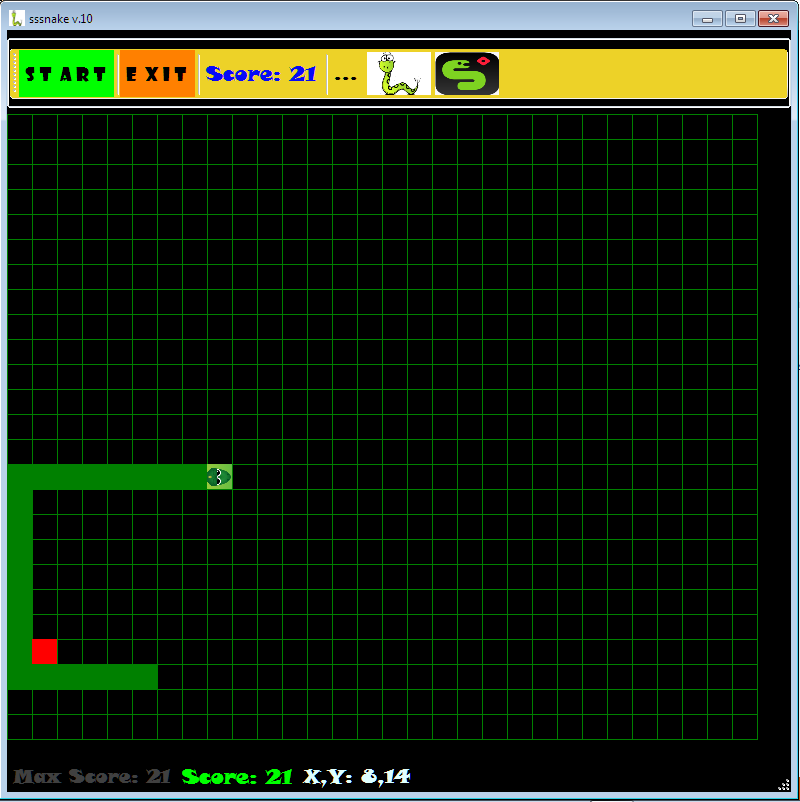
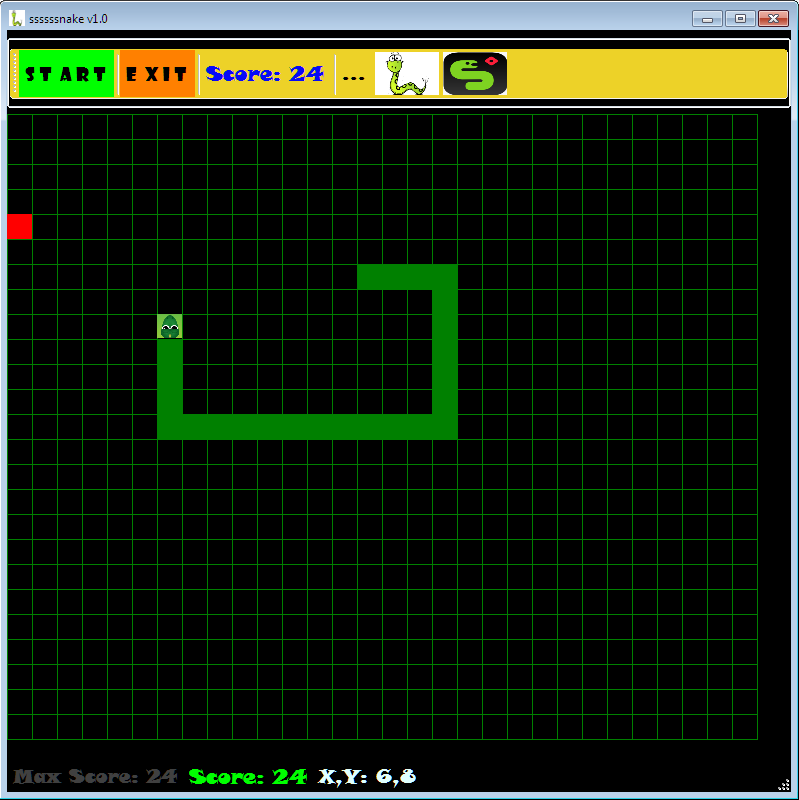
Labels changed

Changed region(s): [[0.0, 0.0, 1.0, 1.0], [0.0, 0.25, 0.0601, 0.3125]]

diff --git a/FormScore.Designer.cs b/FormScore.Designer.cs
@@ -56,7 +56,7 @@
             this.Icon = ((System.Drawing.Icon)(resources.GetObject("$this.Icon")));
             this.Margin = new System.Windows.Forms.Padding(10, 8, 10, 8);
             this.Name = "FormScore";
-            this.Text = "sssnake v1.0 ─ Max Score Info";
+            this.Text = "ssssssnake v1.0 ─ Max Score Info";
             this.Load += new System.EventHandler(this.FormMaxScore_Load);
             this.ResumeLayout(false);
             this.PerformLayout();

diff --git a/FormSSSSSSnake.Designer.cs b/FormSSSSSSnake.Designer.cs
@@ -211,7 +211,7 @@
             this.Font = new System.Drawing.Font("Snap ITC", 20.25F);
             this.Icon = ((System.Drawing.Icon)(resources.GetObject("$this.Icon")));
             this.Name = "SSSnakeForm";
-            this.Text = "sssnake v.10";
+            this.Text = "ssssssnake v1.0";
             this.StatusStripBottom.ResumeLayout(false);
             this.StatusStripBottom.PerformLayout();
             this.GroupBoxButtons.ResumeLayout(false);
